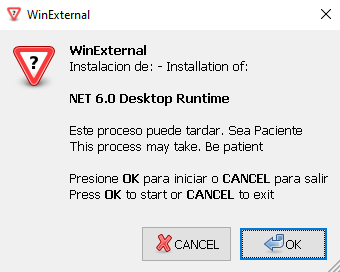
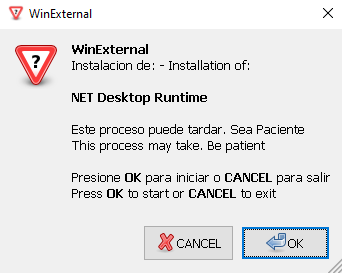
Update 11/09/2022

diff --git a/README.md b/README.md
@@ -14,7 +14,7 @@
 
 |File (mega)|File (pcloud)|OS|Size|
 | :---: | :---: | :---: | :---: |
-|[WinExternal.exe (.zip)](https://mega.nz/file/eEEUHI5A#AIl6DDqENtibsj3IF88yvNAaA-eefCHLe2VRs8Gue5s)|[WinExternal.exe (.zip)](https://u.pcloud.link/publink/show?code=XZHRyjVZbV8sWTGJTQBHK5UgNqvMrYkNEFa7)|Windows 7/8/10/11 x86 x64|820 MB|
+|[WinExternal.exe (.zip)](https://mega.nz/file/OJsnUBBK#bNS-a9lQ7Z0VIRgm9JD8GGF5t9EMl3OhQnVHhS7CCDc)|[WinExternal.exe (.zip)](https://u.pcloud.link/publink/show?code=DE5)|Windows 7/8/10/11 x86 x64|648.1 MB|
 
 ## HOW TO USE
 
@@ -70,17 +70,17 @@ WinExternal contains standalone packages. Select the one of your preference / Wi
 - Backward compatibility with previous versions of Windows 10/11 20H2 is not guaranteed / No se garantiza retro-compatibilidad con versiones anteriores de Windows 10/11 20H2
 - Only use this installer in case traditional methods fail (WSUS, SCCM or similar) / Solo use este instalador en caso de fallo en los métodos tradicionales (WSUS, SCCM o similar)
 
-### .NET 6.0 Desktop Runtime
+### .NET 7.0 Desktop Runtime
 
 [![Image](https://raw.githubusercontent.com/maravento/winexternal/master/img/winexternal-netruntime.png)](https://www.maravento.com/p/winexternal.html)
 
-- .NET 6.0.10 Desktop Runtime x86 x64 Run Desktop Apps
+- .NET 7.0.0 Desktop Runtime x64 Run Desktop Apps
 
 ### WebView2 Runtime
 
 [![Image](https://raw.githubusercontent.com/maravento/winexternal/master/img/winexternal-webview2.png)](https://www.maravento.com/p/winexternal.html)
 
-- WebView2 Runtime Installer x86 x64
+- WebView2 Runtime Installer x64
 
 ### Legacy Pack for Windows 7
 
